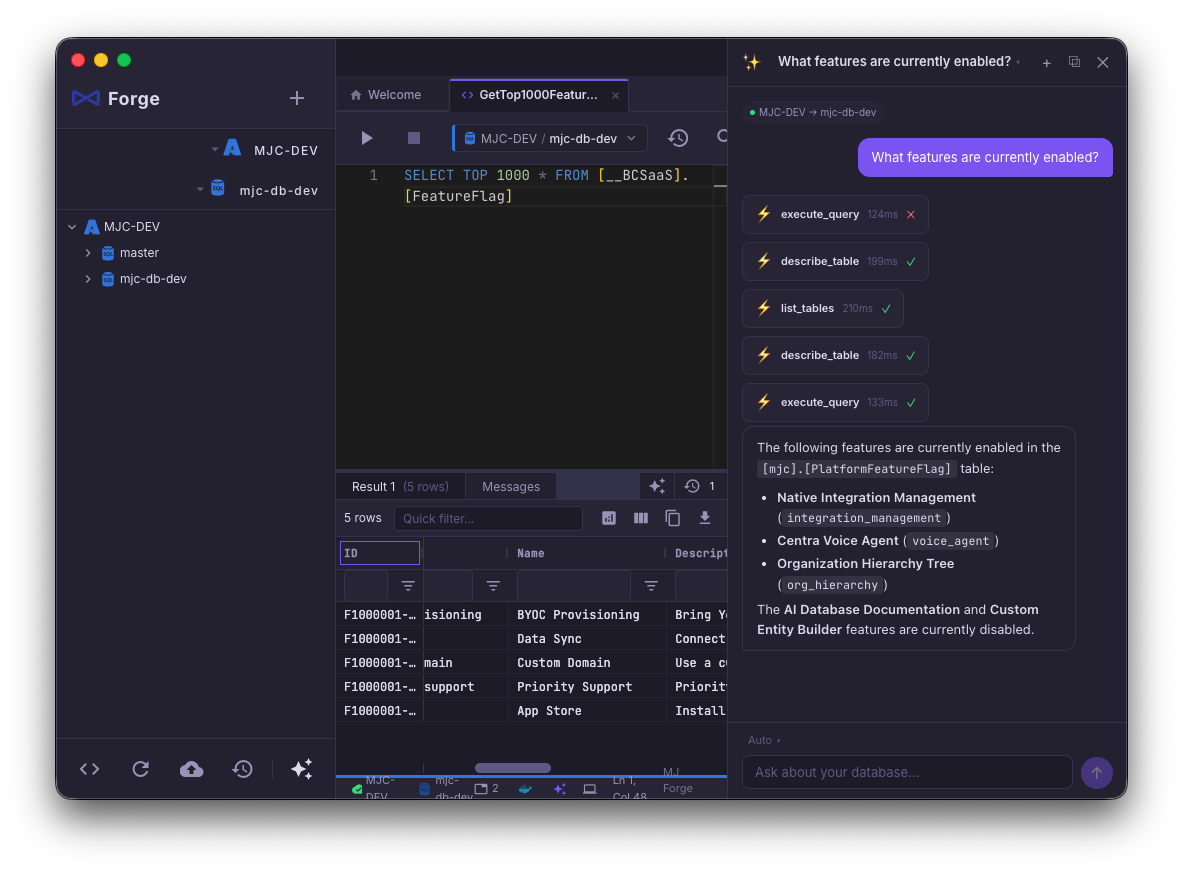
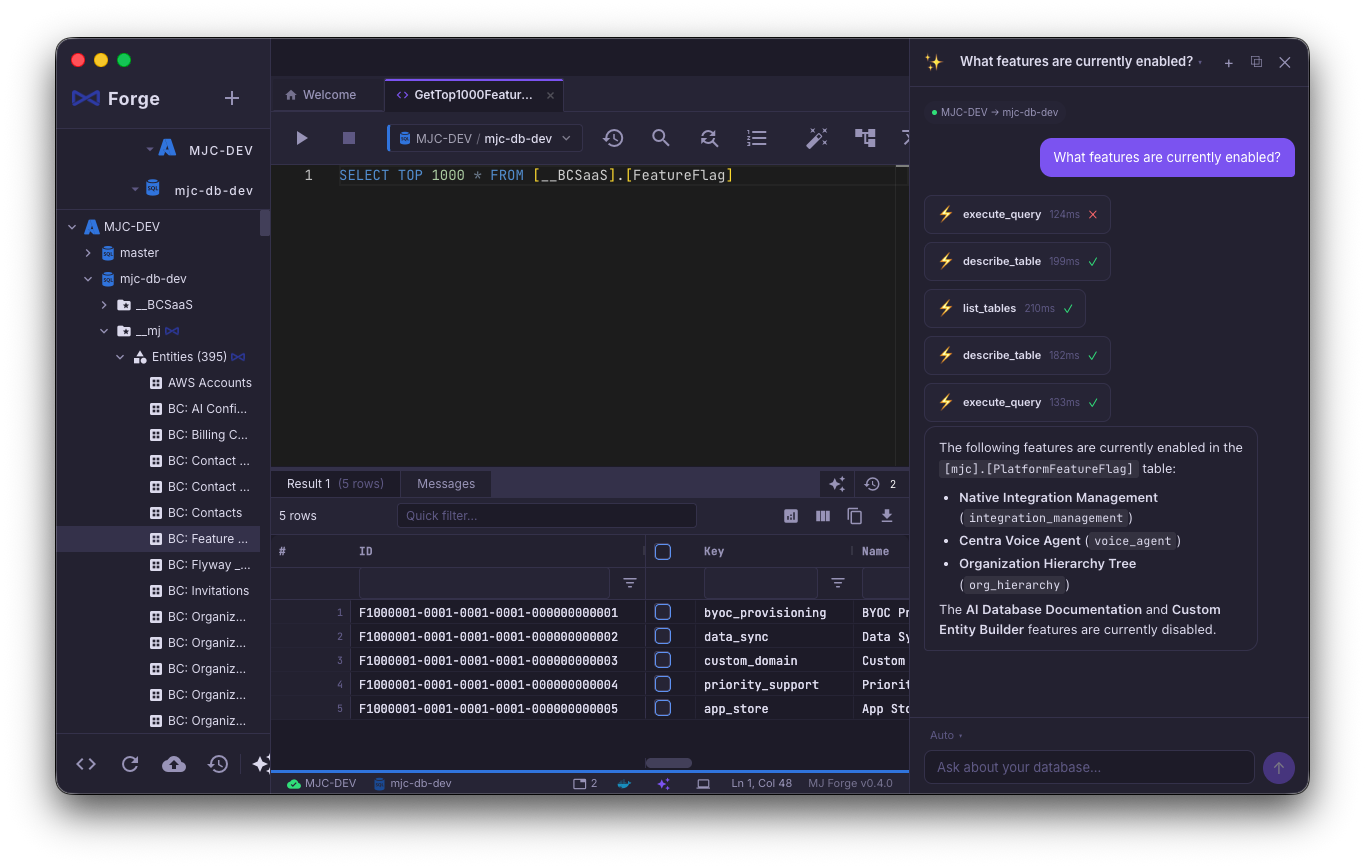
docs: add light-mode AI assistant screenshot, theme-switch via gh-mode fragments

Changed region(s): [[0.0304, 0.0311, 0.9738, 0.9332]]

diff --git a/README.md b/README.md
@@ -221,16 +221,12 @@ All downloads available on the **[Releases page](https://github.com/MemberJuncti
 
 ## Screenshots
 
-![AI Assistant — agentic tool calling against a real database](docs/screenshots/ai-assistant-dark.png)
+![AI Assistant — agentic tool calling against a real database](docs/screenshots/ai-assistant-light.png#gh-light-mode-only)
+![AI Assistant — agentic tool calling against a real database](docs/screenshots/ai-assistant-dark.png#gh-dark-mode-only)
 
 _The AI assistant chains `list_tables` → `describe_table` → `execute_query` tool calls and synthesizes a grounded answer about feature flags, alongside the query editor and results grid._
 
-<!--
-  TODO before merge: capture light-mode pair as ai-assistant-light.png and switch to:
-  ![alt](docs/screenshots/ai-assistant-light.png#gh-light-mode-only)
-  ![alt](docs/screenshots/ai-assistant-dark.png#gh-dark-mode-only)
-  Additional shots planned: multi-engine sidebar, ERD, visual execution plan, object explorer expanded.
--->
+<!-- TODO: additional shots — multi-engine sidebar, ERD, visual execution plan, object explorer expanded -->
 
 ---
 